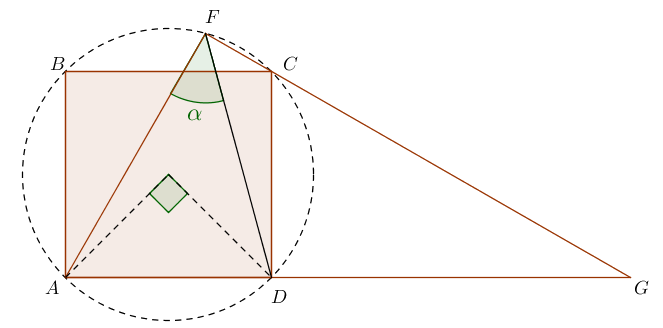
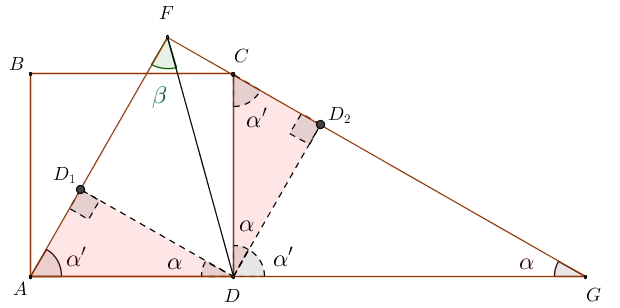
acabat 2n de batxillerat

diff --git a/2016_cat/2n_batx/cangur_2016_cat_2n_batx.md b/2016_cat/2n_batx/cangur_2016_cat_2n_batx.md
@@ -40,7 +40,7 @@ La segona $U$ va a la segona fila, però només pot anar a
 una de dues caselles (no pot estar a la mateixa columna que la primera
 lletra $U$). Per tant, hi ha:
 
-$$3·2=6$$
+$$3\cdot2=6$$
 
 formes de col·locar les lletres $U$.
 
@@ -48,7 +48,7 @@ La resta de lletres de $SUDOKU$, és a dir, $S,D,K,O$ són diferents. Les haurem
 de situar a les quatre caselles lliures. Hi ha tantes maneres diferents de fer-ho com permutations de les lletres $SDKO$, és a dir, $4!$. En total,
 hi ha:
 
-$$6·4!=6·24=144$$
+$$6\cdot 4!=6\cdot 24=144$$
 
 formes d'escriure $SUDOKU$ tal com demana l'enunciat, i la solució és la **E**.
 
@@ -62,7 +62,7 @@ Anomenem els dos costats diferents del rectangle *base* i *altura* $(b, h)$, seg
 troben a les bases del cilindre o no. La base del rectangle coincideix amb el perímetre dels cercles, és a dir, $b=2\pi$. Sabem que l'àrea del rectangle
 és $\pi$, per tant:
 
-$$A_{rectangle}=b·h \quad \Rightarrow \quad \pi = 2\pi·h \quad \Rightarrow \quad h = \frac12$$
+$$A_{rectangle}=b\cdot h \quad \Rightarrow \quad \pi = 2\pi\cdot h \quad \Rightarrow \quad h = \frac12$$
 
 I la solució és la **E**.
 
@@ -71,12 +71,12 @@ I la solució és la **E**.
 Per ser un quadrat perfecte, en la descomposició en factors primers tot els
 factors han d'estar elevats a un exponent parell. La descomposició de $2016$ és:
 
-$$2016=2^5·3^2·7$$
+$$2016=2^5\cdot 3^2\cdot 7$$
 
 Per tal que el producte siga un quadrat perfecte, hem de multiplicar com a mínim per
-$2·7=14$, de manera que:
+$2\cdot 7=14$, de manera que:
 
-$$2016·14=2^6·3^2·7^2=(2^3·3·7)^2$$
+$$2016\cdot 14=2^6\cdot 3^2\cdot 7^2=(2^3\cdot 3\cdot 7)^2$$
 
 I la solució és la **D**.
 
@@ -97,10 +97,10 @@ i per tant el resultat és parell. La solució és la **E**.
 
 ![Enunciat 5, nivell de 2n de batxillerat del Cangur 2016 a Catalunya]({filename}enunciats/05.png)
 
-Com que no sabem quina proporció dels $200€$ és deguda al gas i a l'electricitat,
+Com que no sabem quina proporció dels $200$ € és deguda al gas i a l'electricitat,
 no podrem deduir el preu de la propera factura.
 
-Per exemple, si tota la factura fós deguda al gas, hauria de pagar $204€$, i si fós tota deguda
+Per exemple, si tota la factura fós deguda al gas, hauria de pagar $204$ €, i si fós tota deguda
 a l'electricitat, n'hauria de pagar $208$. Com l'enunciat no ens dóna més
 informació, no ho podem saber i la solució és la **C**.
 
@@ -124,7 +124,7 @@ $$xy = 3y-3x = 3(y-x) = 3$$
 
 Llavors, com volíem saber:
 
-$$(x+y)^2 = 1 + 4xy = 1 + 4·3 = 13$$
+$$(x+y)^2 = 1 + 4xy = 1 + 4\cdot 3 = 13$$
 
 I la solució és la **C**.
 
@@ -141,7 +141,7 @@ Dilluns, dimarts i dimecres, el bodeguer ven $6$ dels $30$ litres de la bóta
 i la reompli d'aigua, és a dir, multiplica per $1-\frac{6}{30}=\frac{4}{5}$
 la quantitat de vi que conté la bóta. Com ho fa $3$ cops, al final de vi en queda:
 
-$$30·\left(\frac45\right)^3 = 30·\frac{64}{125} = 15,36$$
+$$30\cdot \left(\frac45\right)^3 = 30\cdot \frac{64}{125} = 15,36$$
 
 La quantitat d'aigua que hi ha és la diferència: $30-15,36=14,64$, i la solució és la **B**.
 
@@ -156,7 +156,7 @@ i per tant el sector circular ombrejat mesura $60^\circ$.
 Així doncs, es tracta d'una sisena part del cercle, $60^\circ$ de $360^\circ$,
 i per tant l'àrea és:
 
-$$A=\frac16·\pi·1^2 = \frac{\pi}{6}$$
+$$A=\frac16\cdot \pi\cdot 1^2 = \frac{\pi}{6}$$
 
 I la solució és la **B**.
 
@@ -179,12 +179,12 @@ $$(a-b)^3 = a^3 - 3a^2b + 3ab^2 - b^3$$
 
 La suma és:
 
-$$(a+b)^3 + (a-b)^3 = 2a^3 + 2·3ab^2$$
+$$(a+b)^3 + (a-b)^3 = 2a^3 + 2\cdot 3ab^2$$
 
 Per tant:
 
-$$a^3 + b^3 = \frac{2·3^3 + 2·3·3·\sqrt{5}^2}{8} =$$
-$$= \frac{54 + 18·5}{8} = \frac{144}{8} = 18$$
+$$a^3 + b^3 = \frac{2\cdot 3^3 + 2\cdot 3\cdot 3\cdot \sqrt{5}^2}{8} =$$
+$$= \frac{54 + 18\cdot 5}{8} = \frac{144}{8} = 18$$
 
 I la solució és la **D**.
 
@@ -196,10 +196,10 @@ Al dau hi ha sis números: $1,2,3,4,5,6$. Adonem-nos que per tal que el producte
 de dos d'aquests números sigui més petit que la suma, un dels dos números ha de
 ser un $1$:
 
-* Si un número és $1$, qualsevol que sigui l'altre, es complirà que $x+1 > 1·x=x$.
+* Si un número és $1$, qualsevol que sigui l'altre, es complirà que $x+1 > 1\cdot x=x$.
 * Si cap dels dos números és $1$, no es complirà mai. El cas que més s'apropa és
-quan surten dos $2$: $2+2 \ngtr 2·2$, i a partir d'aquí la diferència s'eixampla:
-$2+3 \ngtr 2·3$, $3+3 \ngtr 3·3$.
+quan surten dos $2$: $2+2 \ngtr 2\cdot 2$, i a partir d'aquí la diferència s'eixampla:
+$2+3 \ngtr 2\cdot 3$, $3+3 \ngtr 3\cdot 3$.
 
 Així doncs, podem reformular l'enunciat com: quina és la probabilitat que surti
 algun número $1$ quan llancem els dos daus?
@@ -208,7 +208,7 @@ Per saber la probabilitat que surti *algun* $1$ hem de sumar la probabilitat que
 en el primer dau, més la probabilitat que surti en el segon, menys la probabilitat
 que surti en els dos (perquè és una possibilitat que hem comptat dos cops). El resultat és:
 
-$$\frac16 + \frac16 - \frac16·\frac16 = \frac{6 + 6 - 1}{36} = \frac{11}{36}$$
+$$\frac16 + \frac16 - \frac16\cdot \frac16 = \frac{6 + 6 - 1}{36} = \frac{11}{36}$$
 
 I la solució és la **D**.
 
@@ -219,20 +219,20 @@ són parells, i serà un cub perfecte si tots els exponents són múltiples de $
 
 Pel que ens diu l'enunciat:
 
-* $10A=2·5·A$ és un quadrat perfecte. Llavors sabem que en la descomposició
+* $10A=2\cdot 5\cdot A$ és un quadrat perfecte. Llavors sabem que en la descomposició
 en factors primers d'$A$, el $2$ i el $5$ estan elevats a un exponent senar i
 qualsevol altre factor està elevat a un exponent parell.
-* $6A=2·3·A$ és un cub perfecte. Llavors sabem que en sumar $1$ als exponents
+* $6A=2\cdot 3\cdot A$ és un cub perfecte. Llavors sabem que en sumar $1$ als exponents
 de $2$ i $3$ en la descomposició d'$A$, els exponents són múltiples de $3$ i
 qualsevol altre factor està elevat a un exponent múltiple de $3$.
 
 El nombre més petit que compleix aquestes propietats és:
 
-$$A=2^5·3^2·5^3$$
+$$A=2^5\cdot 3^2\cdot 5^3$$
 
 El nombre de divisors d'un nombre és el producte dels exponents més $1$ de cada factor primer:
 
-$$\text{n. divisors} = (5+1)·(2+1)·(3+1)= 6·3·4  = 72$$
+$$\text{n. divisors} = (5+1)\cdot (2+1)\cdot (3+1)= 6\cdot 3\cdot 4  = 72$$
 
 La solució és la **A**.
 
@@ -260,29 +260,29 @@ Per tant el radi mesura $13\text{ cm}$ i la solució és la **C**.
 
 Els divisors de $2016$ són els productes de totes les diferents combinacions dels factors primers:
 
-$$2016=2^5·3^2·7$$
+$$2016=2^5\cdot 3^2\cdot 7$$
 
 És a dir, per construir un divisor, podem posar el $2$ multiplicant un cop, dos cops...
 fins a $5$ cops, i de manera equivalent amb el $3$ i el $7$. En total hi ha:
 
-$$\text{n. divisors} = (5+1)·(2+1)·(1+1) = 6·3·2 = 36$$
+$$\text{n. divisors} = (5+1)\cdot (2+1)\cdot (1+1) = 6\cdot 3\cdot 2 = 36$$
 
 Dels $36$ divisors, la meitat tindran un $7$ com a factor, i l'altra meitat no en tindran cap.
 El producte de tots els divisors tindrà $\frac{36}{2}=18$ sets, i per tant la única solució
 que pot ser correcta és $2016^{18}$ i la solució és la **A**.
 
 Si comptem el nombre de vegades que apareixen el $2$ i el $3$ en el producte de tots els divisors,
-veurem també que apareixen $18·5$ i $18·2$ vegades respectivament.
+veurem també que apareixen $18\cdot 5$ i $18\cdot 2$ vegades respectivament.
 
 ![Enunciat 15, nivell de 2n de batxillerat del Cangur 2016 a Catalunya]({filename}enunciats/15.png)
 
 En multiplicar l'alçada per un factor $x$, la proporció passa de $\frac23$ a $\frac{12}{5}$:
 
-$$\frac23·x = \frac{5}{12} \quad \Rightarrow \quad x = \frac{5}{12}\frac32 = \frac{15}{24} = \frac58$$
+$$\frac23\cdot x = \frac{5}{12} \quad \Rightarrow \quad x = \frac{5}{12}\frac32 = \frac{15}{24} = \frac58$$
 
 Per tant, hem retallat $1-\frac58 = \frac38$ de la fotografia. En tant per cent, és:
 
-$$100·\frac38 = 37,5\text{ \%}$$
+$$100\cdot \frac38 = 37,5\text{ \%}$$
 
 I la solució és la **C**.
 
@@ -304,11 +304,11 @@ $$r_1 = 15, \quad h_1 = 40, \quad r_2 = 20, \quad h_2 = 60$$
 
 El volum total dels dos cilindres (el volum d'un cilindre és l'àrea del cercle de la base per l'altura) és:
 
-$$V = V_1 + V_2 = \pi·15^2·40 + \pi·20^2·60 = 33.000\pi \text{ cm}^3$$
+$$V = V_1 + V_2 = \pi\cdot 15^2\cdot 40 + \pi\cdot 20^2\cdot 60 = 33.000\pi \text{ cm}^3$$
 
 Sabem que en $3$ minuts el nivell ha pujat $5\text{ cm}$ (del cilindre petit), per tant, s'ompli al ritme:
 
-$$\text{flux} = \frac{\pi·15^2·5}{3} = 375\pi \text{ cm}^3/\text{min}$$
+$$\text{flux} = \frac{\pi\cdot 15^2\cdot 5}{3} = 375\pi \text{ cm}^3/\text{min}$$
 
 Per omplir els dos dipòsits trigarà:
 
@@ -324,19 +324,19 @@ En aquest cas, el divisor és la suma de les xifres d'un número més petit que 
 
 El divisor més gran possible és $27$, amb el número $999$, però en aquest cas el residu és $0$:
 
-$$999=27·37 + 0$$
+$$999=27\cdot 37 + 0$$
 
 El segon divisor més gran possible és $26$, amb els números $998, 989, 899$. Els residus són:
 
-$$998 = 38·26 + 10$$
-$$989 = 38·26 + 1$$
-$$899 = 34·26 + 15$$
+$$998 = 38\cdot 26 + 10$$
+$$989 = 38\cdot 26 + 1$$
+$$899 = 34\cdot 26 + 15$$
 
 El tercer divisor més gran és $25$, que es correspon amb combinacions de $997$ i $988$. Quan dividim
 per $25$ és fàcil veure si el residu serà $24$: només cal fixar-se en les últimes dues xifres i veure
 si acaben en $24,49,74,99$. Per tant, podem veure que $799$ serà el nombre que ens donarà la resposta:
 
-$$799 = 31·25 + 24$$
+$$799 = 31\cdot 25 + 24$$
 
 I la solució és la **D**.
 
@@ -359,7 +359,7 @@ $$x_1^2 = \frac45, \quad x_2^2 = 2$$
 
 Com la primera placa quadrada pesa $2$ grams, la segona pesa:
 
-$$\frac2{\frac45}·2 = 5\text{ grams}$$
+$$\frac2{\frac45}\cdot 2 = 5\text{ grams}$$
 
 I la solució és la **D**.
 
@@ -367,20 +367,20 @@ I la solució és la **D**.
 
 En primer lloc, podem trobar una solució trivial amb $x=1, y=6$:
 
-$$1!·7! = (1+6)!$$
+$$1!\cdot 7! = (1+6)!$$
 
-Per tal que $x·7!$ sigui en si un factorial, podem fer que $x=7!-1$, i llavors, amb $y=1$:
+Per tal que $x\cdot 7!$ sigui en si un factorial, podem fer que $x=7!-1$, i llavors, amb $y=1$:
 
-$$(7!-1)·7! = (7!)! = ((7!-1) + 1)$$
+$$(7!-1)\cdot 7! = (7!)! = ((7!-1) + 1)$$
 
-Una altra manera de resoldre l'equació seria si poguéssim trobar una $x$ de la forma $x=8·9·10\cdots$.
-No cal provar molt per adonar-nos que: $8·9·10 = 720 = 6!$, per tant, amb $x=6, y=4$:
+Una altra manera de resoldre l'equació seria si poguéssim trobar una $x$ de la forma $x=8\cdot 9\cdot 10\cdots$.
+No cal provar molt per adonar-nos que: $8\cdot 9\cdot 10 = 720 = 6!$, per tant, amb $x=6, y=4$:
 
-$$7!·6! = 10! = (6+4)!$$
+$$7!\cdot 6! = 10! = (6+4)!$$
 
 En total, hem trobat $3$ solucions per a l'equació, falta veure si poden haver-hi infinites.
 
-Però no poden haver infintes solucions perquè amb $x>7!$, $x!·7!$ mai pot ser
+Però no poden haver infintes solucions perquè amb $x>7!$, $x!\cdot 7!$ mai pot ser
 un factorial, i per tant el nombre de solucions ha de ser per força finit.
 
 Així, la solució és la **E**.
@@ -434,7 +434,7 @@ entre els $12$ punts que hi ha, sense importar l'ordre. La resposta és:
 $$
 \begin{pmatrix}
 3 \\ 12
-\end{pmatrix} = \frac{12·11·10}{3·2} = 220
+\end{pmatrix} = \frac{12\cdot 11\cdot 10}{3\cdot 2} = 220
 $$
 
 Però no totes aquestes combinacions formen triangles, perquè pot ser que els tres
@@ -444,10 +444,10 @@ costat:
 $$
 \begin{pmatrix}
 3 \\ 5
-\end{pmatrix} = \frac{5·4·3}{3·2} = 10
+\end{pmatrix} = \frac{5\cdot 4\cdot 3}{3\cdot 2} = 10
 $$
 
-Com hi ha $3$ costats, en total hi ha $3·10=30$ formes diferents de triar $3$ punts alineats.
+Com hi ha $3$ costats, en total hi ha $3\cdot 10=30$ formes diferents de triar $3$ punts alineats.
 
 En total es poden dibuixar $220-30=190$ triangles diferents i la solució és la **E**.
 
@@ -493,14 +493,14 @@ són:
 Per la banda positiva, la recta talla el sinus dos cops per cada *turó*, i els *turons*
 estan situats als intervals $(n, n+0.5)$.
 Concretament, les gràfiques es tallaran $2$ cops a cada interval
-$(0,0.5), (1, 1.5), \ldots, (2015, 2015.5)$. En total, es tracta de $2·2016=$ interseccions.
+$(0,0.5), (1, 1.5), \ldots, (2015, 2015.5)$. En total, es tracta de $2\cdot 2016=$ interseccions.
 
-Per la banda negativa, el raonament és el mateix, de manera que hi ha també $2·2016$ interseccions.
+Per la banda negativa, el raonament és el mateix, de manera que hi ha també $2\cdot 2016$ interseccions.
 
 Ara bé, hem comptat dos cops una mateixa intersecció: la de l'origen de coordenades ($x=0$).
 Així doncs, el nombre total de solucions és:
 
-$$2·2016+2·2016-1=8063$$
+$$2\cdot 2016+2\cdot 2016-1=8063$$
 
 I la solució és la **D**.
 
@@ -538,11 +538,11 @@ $$f(xy) = \frac{f(x)}y$$
 
 Llavors, podem buscar $f(24)$ amb:
 
-$$f(24) = f(8·3) = \frac{f(8)}3$$
+$$f(24) = f(8\cdot 3) = \frac{f(8)}3$$
 
 I podem esbrinar el valor de $f(8)$ amb:
 
-$$f(32) = f(8·4) = \frac{f(8)}4 = 63 \quad \Rightarrow \quad f(8) = 63·4 = 252$$
+$$f(32) = f(8\cdot 4) = \frac{f(8)}4 = 63 \quad \Rightarrow \quad f(8) = 63\cdot 4 = 252$$
 
 Finalment:
 
@@ -597,21 +597,30 @@ $$\sum^{\infty}_{n=0}xr^n = 50x$$
 Es tracta d'una progressió geomètrica infinita la suma de la qual és $\frac{x}{1-r}$.
 Podem plantejar l'equació:
 
-$$\frac{x}{1-r} = 50x \quad \Rightarrow \quad 1= 50·(1-r) = 50 - 50r \quad \Rightarrow \quad r = \frac{49}{50}$$
+$$\frac{x}{1-r} = 50x \quad \Rightarrow \quad 1= 50\cdot (1-r) = 50 - 50r \quad \Rightarrow \quad r = \frac{49}{50}$$
 
-Una proporció de $\frac{49}{50}$ en tant per cent és $100·\frac{49}{50}=98\%$.
+Una proporció de $\frac{49}{50}$ en tant per cent és $100\cdot \frac{49}{50}=98\%$.
 Si s'utilitza un $98\%$ del petroli de l'any anterior, significa que s'ha reduit
 el consum en un $2\%$ i per tant la solució és la **D**.
 
 ![Enunciat 29, nivell de 2n de batxillerat del Cangur 2016 a Catalunya]({filename}enunciats/29.png)
 
-Solucionarem aquest problema de manera senzilla dibuixant una circumferència
-circumscrita al quadrat:
+Anomenem $\beta$ l'angle que volem esbrinar, i anomenem $\alpha, \alpha'$ els
+dos angles aguts del triangle rectangle $AFG$. Com és un triangle rectangle,
+aquests dos angles són complementaris, és a dir, $\alpha+\alpha'=90^\circ$.
+
+Ara projectem el punt $D$ als dos altres costats, i anomenem $D_1, D_2$
+els nous punts. Tal com es veu a la figura, tenim dos triangles rectangles ($ADD_1, DD_2C$, en vermell clar)
+que tenen els mateixos angles, i a més, la seua hipotenusa mesura el mateix
+(les hipotenuses són costats del quadrat). Per tant, els triangles vermells són iguals.
 
 ![Solució 29, nivell de 2n de batxillerat del Cangur 2016 a Catalunya]({filename}solucions/29.png)
 
-Veiem que l'angle $\alpha$ que volem esbrinar abarca un arc de $90^\circ$, i
-per això mesura la meitat, $45^\circ$, i la solució és la **B**.
+Com els triangles $ADD_1$ i $DD_2C$ són iguals, el quadrilàter $DD_2FD_1$ és un
+quadrat, i el segment $FD$ és una diagonal del quadrat. Llavors, l'angle $\beta$
+que volíem esbrinar és la meitat de l'angle recte i per tant mesura $45^\circ$.
+
+La solució és la **C**.
 
 ![Enunciat 30, nivell de 2n de batxillerat del Cangur 2016 a Catalunya]({filename}enunciats/30.png)
 

diff --git a/2016_cat/1r_batx/cangur_2016_cat_1r_batx.md b/2016_cat/1r_batx/cangur_2016_cat_1r_batx.md
@@ -2,6 +2,7 @@ Title: Solucions del Cangur 2016 a Catalunya: Nivell 1r de batxillerat
 Date: 2016-4-21 12:00
 Tags: cangur, matemàtiques
 Category: cangur
+Status: draft
 Slug: solucions-cangur-2016-catalunya-1r-batx
 Description: Recull de solucions del nivell de 1r de batxillerat de les Proves Cangur 2016 a Catalunya
 

diff --git a/2016_cat/3r_eso/cangur_2016_cat_3r_eso.md b/2016_cat/3r_eso/cangur_2016_cat_3r_eso.md
@@ -2,6 +2,7 @@ Title: Solucions del Cangur 2016 a Catalunya: Nivell 3r d'ESO
 Date: 2016-4-21 12:00
 Tags: cangur, matemàtiques
 Category: cangur
+Status: draft
 Slug: solucions-cangur-2016-catalunya-3r-eso
 Description: Recull de solucions del nivell de 3r d'ESO de les Proves Cangur 2016 a Catalunya
 

diff --git a/2016_cat/4t_eso/cangur_2016_cat_4t_eso.md b/2016_cat/4t_eso/cangur_2016_cat_4t_eso.md
@@ -2,6 +2,7 @@ Title: Solucions del Cangur 2016 a Catalunya: Nivell 4t d'ESO
 Date: 2016-4-21 12:00
 Tags: cangur, matemàtiques
 Category: cangur
+Status: draft
 Slug: solucions-cangur-2016-catalunya-4t-eso
 Description: Recull de solucions del nivell de 4t d'ESO de les Proves Cangur 2016 a Catalunya
 
